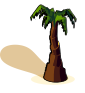
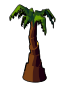
palm change and move

diff --git a/nezal-ar/public/base-defender/js/game/buildings_manager.js b/nezal-ar/public/base-defender/js/game/buildings_manager.js
@@ -39,7 +39,7 @@ var BuildingsManager = Class.create({
     $("leftArrow").stopObserving("click");
     $("leftArrow").observe("click", function(){
       if(currentShift != 0) {
-        currentShift -= 4;
+        currentShift -= 5;
         $$('#interaction .buildings')[0].setStyle({marginLeft : (currentShift*-84) + 'px' })
         $$('#rightArrow img')[0].setStyle({marginLeft : '-90px'});
         if(currentShift == 0)
@@ -52,7 +52,7 @@ var BuildingsManager = Class.create({
     $("rightArrow").stopObserving("click");
     $("rightArrow").observe("click", function(){
       if(currentShift < maxShift) { 
-        currentShift += 4;
+        currentShift += 5;
         $$('#interaction .buildings')[0].setStyle({marginLeft : (currentShift*-84) + 'px' });
         $$('#leftArrow img')[0].setStyle({marginLeft : '-60px'});
         if(currentShift == maxShift)

diff --git a/nezal-ar/public/base-defender/js/game/displays/building_display.js b/nezal-ar/public/base-defender/js/game/displays/building_display.js
@@ -183,7 +183,14 @@ var BuildingDisplay = Class.create(Display, {
     var owner = this.owner;
     $('panel-buttons-container').innerHTML = this.game.templatesManager.load("upgrade-button");
 	this.owner.game.addLoadedImagesToDiv('panel-buttons-container')
+	this.game.domConverter.convert(this.game.templatesManager.load("move-button"))
+	$('panel-buttons-container').appendChild($('move_trigger'));
     $('upgrade_trigger').stopObserving('click');
+	$('move_trigger').stopObserving('click');
+	$('move_trigger').observe('click',function(){
+		owner.game.selectedBuildingPanel.hide();
+		owner.game.buildingMode.move()
+	});
     if (!owner.isValidToUpgrade(true)) {
       $('upgrade_trigger').select("img")[0].setStyle({marginTop : "-75px"});
       $('upgrade_trigger').setAttribute("disabled", "disabled");

diff --git a/nezal-ar/public/base-defender/js/game/displays/wedge_display.js b/nezal-ar/public/base-defender/js/game/displays/wedge_display.js
@@ -43,6 +43,9 @@ var WedgeDisplay = Class.create(BuildingDisplay, {
    manageStateChange : function($super){
     $super()
     var self = this;
+	this.owner.stateNotifications[this.owner.states.NOT_PLACED].push(function(){
+      self.sprites.moving.show();
+    });
     this.owner.stateNotifications[this.owner.states.UNDER_CONSTRUCTION].push(function(){
       self.owner.weapon.container.hide();
     });

diff --git a/nezal-ar/public/base-defender/js/game/car.js b/nezal-ar/public/base-defender/js/game/car.js
@@ -78,7 +78,7 @@ var Car = Class.create(MovingObject,{
 			if(Map.objects[i].hp<=1)continue;
 			var building = Map.objects[i] 
 			var distanceToBuilding = Util.distance(this.coords.x,this.coords.y,building.coords.x,building.coords.y)
-			if(distanceToBuilding < minDistance){
+			if(building.name!='palm' && distanceThoBuilding < minDistance){
 				minDistance = distanceToBuilding
 				minIndex = i
 			}

diff --git a/nezal-ar/public/base-defender/templates/templates.html b/nezal-ar/public/base-defender/templates/templates.html
@@ -217,6 +217,14 @@
   </div>
 </textarea>
 
+<textarea style="display:none;" id='move-button'>
+  <div class="panel-button" id="move_trigger">
+    <span>Move</span>
+    <img src="${Loader.images.panel['buttons.png'].src}">
+  </div>
+</textarea>
+
+
 <textarea style="display:none;" id='resource-building-buttons'>
   <div class="panel-button" id="collect_resource_trigger">
     <span>Collect</span>

diff --git a/nezal-ar/public/base-defender/js/game/templates_manager.js b/nezal-ar/public/base-defender/js/game/templates_manager.js
@@ -21,7 +21,7 @@ var TemplatesManager = Class.create({
   
   buildingsPanel : function(buildings){
     currentShift = 0;
-    maxShift = 4;
+    maxShift = 5;
     return this.load("buildings-panel", {'buildings' : buildings});
   }
 });

diff --git a/nezal-ar/app/models/games/base_defender/wedge.rb b/nezal-ar/app/models/games/base_defender/wedge.rb
@@ -16,7 +16,10 @@ module BD
     def upgrade(user_game_profile, coords)
       self.class.upgrade(user_game_profile, coords, @name)
     end
-
+    
+    def move(user_game_profile, name, coords, oldCoords)
+      self.class.move(user_game_profile, name, coords, oldCoords)
+    end
   end
 
 end
